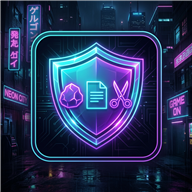
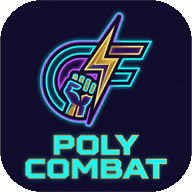
chore(app2): branding POLY COMBAT + nouvelles icones (512/192/180/48)

diff --git a/Web3_Combat_Game/frontend/index.html b/Web3_Combat_Game/frontend/index.html
@@ -3,12 +3,12 @@
 <head>
     <meta charset="UTF-8">
     <meta name="viewport" content="width=device-width, initial-scale=1.0">
-    <meta name="description" content="GIGA FIGHT — duels 1v1 et battle royale on-chain sur Pingala Chain (TST).">
+    <meta name="description" content="POLY COMBAT — duels 1v1 et battle royale on-chain sur Pingala Chain (TST).">
     <meta name="theme-color" content="#0F0C1B">
-    <link rel="icon" href="pwa_icon_192.png" type="image/png">
-    <link rel="apple-touch-icon" href="pwa_icon_192.png">
+    <link rel="icon" href="favicon.png" type="image/png">
+    <link rel="apple-touch-icon" href="apple-touch-icon.png">
     <link rel="manifest" href="manifest.json">
-    <title>GIGA FIGHT</title>
+    <title>POLY COMBAT</title>
     <link rel="stylesheet" href="style.css?v=4.7">
 </head>
 <body>
@@ -91,7 +91,7 @@
             <div id="screen-splash" class="screen active">
                 <div class="splash-container">
                     <div class="logo-wrapper">
-                        <h1 class="game-logo">GIGA FIGHT</h1>
+                        <h1 class="game-logo">POLY COMBAT</h1>
                         <span class="logo-sub">SPIRIT FIGHT</span>
                         <div class="katana-slash"></div>
                     </div>
@@ -577,14 +577,14 @@
     <script src="i18n.js?v=4"></script>
     <!-- Journal client (bouton 🐞 + modal + copie) — chargé AVANT app.js pour
          capturer ses logs console. Voir window.openDebugLog(). -->
-    <script src="debug-log.js?v=6" defer></script>
+    <script src="debug-log.js?v=7" defer></script>
     <script src="ui-loader.js?v=2" defer></script>
     <script src="app.js?v=4.43" defer></script>
     <!-- PWA : service worker (met en cache les gros fichiers /godot/*) -->
     <script>
         if ('serviceWorker' in navigator) {
             window.addEventListener('load', function () {
-                navigator.serviceWorker.register('sw.js?v=3').catch(function (e) {
+                navigator.serviceWorker.register('sw.js?v=4').catch(function (e) {
                     console.warn('[PWA] service worker non enregistré:', e);
                 });
             });

diff --git a/Web3_Combat_Game/frontend/debug-log.js b/Web3_Combat_Game/frontend/debug-log.js
@@ -151,7 +151,7 @@
         card.style.cssText = 'background:#0a1a28;border:1px solid rgba(0,229,255,0.4);border-radius:12px;width:min(760px,96vw);max-height:86vh;display:flex;flex-direction:column;box-shadow:0 12px 48px rgba(0,0,0,0.6)';
 
         var title = document.createElement('div');
-        title.textContent = '🐞 Journal de debug — GIGA FIGHT';
+        title.textContent = '🐞 Journal de debug — POLY COMBAT';
         title.style.cssText = 'padding:12px 16px 6px;font-weight:700;color:#aef2ff;font-size:1rem';
 
         var info = document.createElement('div');

diff --git a/Web3_Combat_Game/frontend/sw.js b/Web3_Combat_Game/frontend/sw.js
@@ -14,7 +14,7 @@
 // IMPORTANT : tout nouveau jeu.pck/wasm ou changement d'asset versionné →
 // incrémenter CACHE (les fichiers à ?v= se renouvellent tout seuls).
 // ============================================================================
-const CACHE = 'w3c-app2-20261015-3';
+const CACHE = 'w3c-app2-20261015-4';
 const GODOT_PRECACHE = ['/godot/jeu.js', '/godot/jeu.wasm', '/godot/jeu.pck'];
 
 self.addEventListener('install', () => self.skipWaiting());
